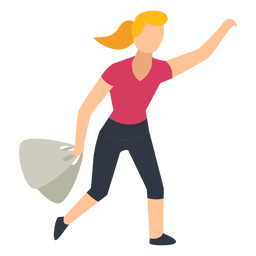
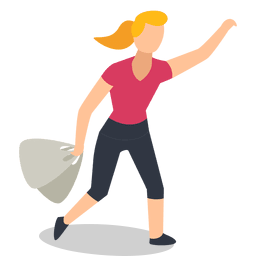
:art: Touch up some image assets, add style improvements

Changed region(s): [[0.1562, 0.875, 0.6875, 1.0]]

diff --git a/src/sections/intro/slides/cjm.jsx b/src/sections/intro/slides/cjm.jsx
@@ -39,6 +39,10 @@ const EventContainer = styled.div`
   flex-direction: row;
   justify-content: space-around;
 
+  & div.popup {
+    width: auto !important;
+    padding: 1em !important;
+  }
 
 `;
 
@@ -90,6 +94,16 @@ const ToggleContainer = styled.div`
   }
 `;
 
+const Channel = styled.div`
+  width: 2em;
+  height: 1.5em;
+
+  display: inline-flex;
+  & > * {
+    margin: auto;
+  }
+`;
+
 
 const popupContentStyle = {
   border: 'none'
@@ -119,6 +133,7 @@ export default () => {
                   onMouseLeave={() => toggleHovering(false)}
                 >
                   <Popup
+                    className='popup'
                     trigger={
                       <Event
                         className={`event ${hovering ? 'oneHovered' : ''}`}
@@ -127,7 +142,7 @@ export default () => {
 
                       />
                     }
-                    position={(event.happiness || (showBest ? event.best.happiness : event.worst.happiness) > 40) ? 'bottom' : 'left bottom'}
+                    position={(event.happiness || (showBest ? event.best.happiness : event.worst.happiness) > 40) ? 'bottom' : 'top'}
                     contentStyle={popupContentStyle}
                     arrowStyle={popupArrowStyle}
                     on="hover"
@@ -150,7 +165,9 @@ export default () => {
 
                       <span style={{gridArea: 'channels'}}>
                         {event.channels.map(item => (
-                          <FontAwesomeIcon icon={item} size='lg' />
+                          <Channel>
+                            <FontAwesomeIcon icon={item} size='lg' />
+                          </Channel>
                         ))}
                       </span>
 
@@ -164,9 +181,9 @@ export default () => {
           </Phase>
         ))}
       </MapContainer>
+      {/* TODO; add legend */}
       <ToggleContainer>
         <Button backgroundColor='secondary' onClickHandler={() => toggleShowBest(prev => !prev)} label={showBest ? 'Show Worst Case' : 'Show Best Case'} />
-
       </ToggleContainer>
     </SlideWrapper>
   );

diff --git a/src/sections/intro/slides/profile.jsx b/src/sections/intro/slides/profile.jsx
@@ -10,7 +10,7 @@ import Button from '../../../components/Button';
 
 import Man from '../../../../static/man.png';
 import Woman from '../../../../static/woman.png';
-import Genderless from '../../../../static/genderless.jpg';
+import Genderless from '../../../../static/genderless.png';
 
 
 const Container = styled.div`
@@ -18,8 +18,8 @@ const Container = styled.div`
 
   display: grid;
   grid-template-columns: 2fr 5fr;
-  grid-template-rows: 1fr 4fr;
-  grid-row-gap: 2em;
+  grid-template-rows: 1fr 6fr;
+  grid-row-gap: 1em;
   grid-template-areas:
     'heading heading'
     'image text';
@@ -77,9 +77,6 @@ export default () => {
 
   const updateName = name => dispatch({ type: 'UPDATE_NAME', name });
   const updateGender = gender => dispatch({ type: 'UPDATE_GENDER', gender });
-
-  console.log(userName, userGender);
-
 
   return (
     <SlideWrapper>

diff --git a/src/utils/siteStyles.js b/src/utils/siteStyles.js
@@ -124,5 +124,15 @@ export const GlobalStyles = createGlobalStyle`
     box-sizing: border-box;
 
     font-family: ${app.font.family}, -apple-system, BlinkMacSystemFont, sans-serif;
+
+    & #fp-nav li a span {
+      background-color: ${colors.primary};
+      color: ${colors.primary}
+    }
+
+    & .fp-slidesNav li a span {
+      background-color: ${colors.secondary};
+      color: ${colors.secondary}
+    }
   }
 `;

diff --git a/src/sections/hero/index.jsx b/src/sections/hero/index.jsx
@@ -28,7 +28,7 @@ export default () => {
   const [ showSub, updateShowSub ] = useState(false);
 
   useEffect(() => {
-    const subTimer = setTimeout(() => updateShowSub(true), 5000);
+    const subTimer = setTimeout(() => updateShowSub(true), 4000);
 
     return () => clearTimeout(subTimer);
   })
